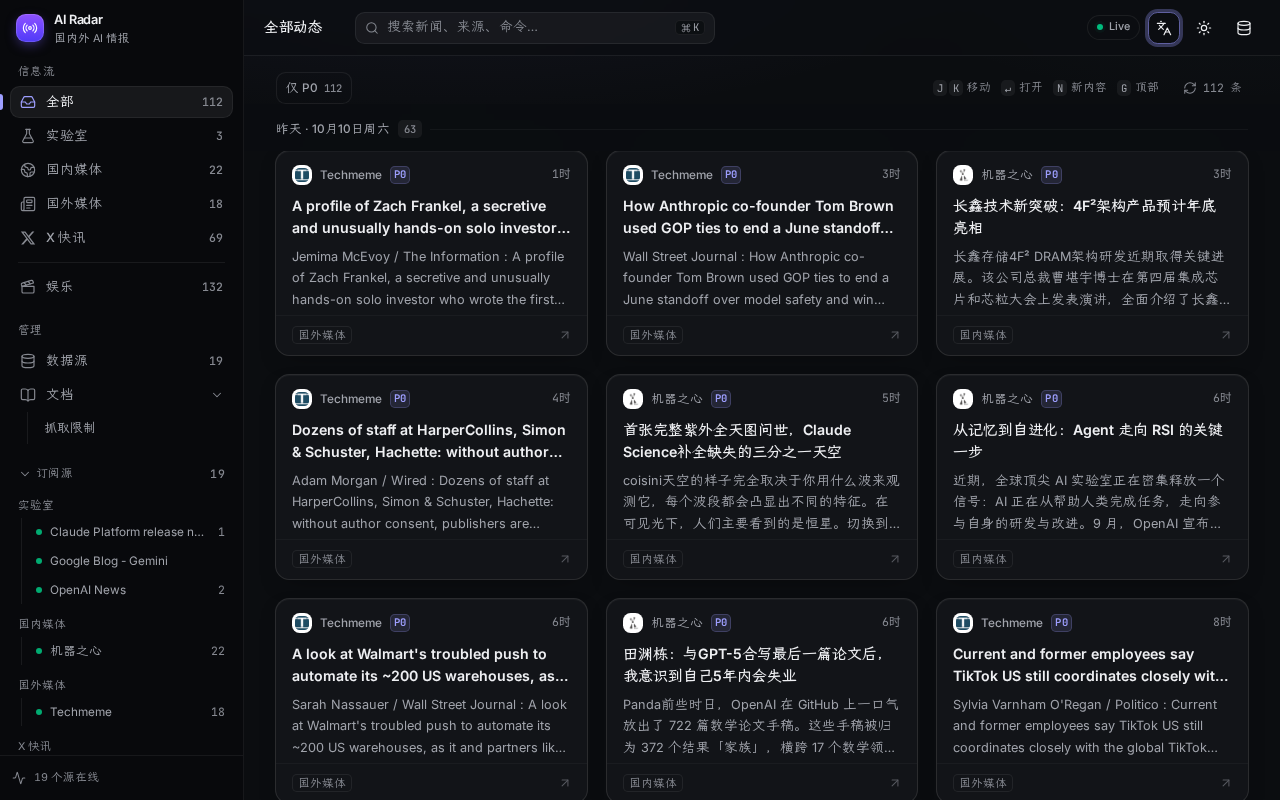
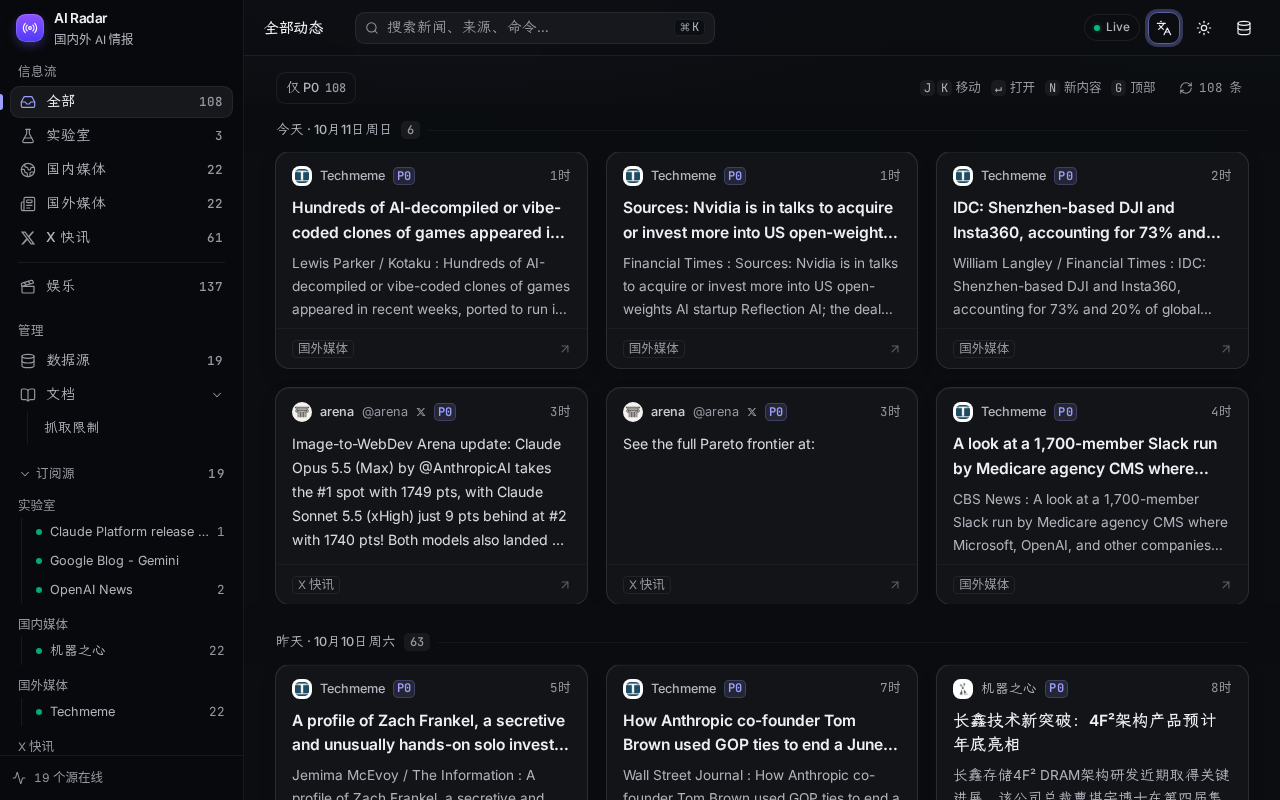
ui: larger, more readable type scale

diff --git a/src/app/globals.css b/src/app/globals.css
@@ -15,8 +15,8 @@
   --secondary: oklch(0.955 0.006 85);
   --secondary-foreground: oklch(0.25 0.01 75);
   --muted: oklch(0.955 0.006 85);
-  --muted-foreground: oklch(0.47 0.012 75);
-  --faint: oklch(0.53 0.012 75);
+  --muted-foreground: oklch(0.43 0.012 75);
+  --faint: oklch(0.49 0.012 75);
   --accent: oklch(0.945 0.007 85);
   --accent-foreground: oklch(0.2 0.01 75);
   --destructive: oklch(0.55 0.21 27);
@@ -51,8 +51,8 @@
   --secondary: oklch(1 0 0 / 0.055);
   --secondary-foreground: oklch(0.9 0.005 268);
   --muted: oklch(1 0 0 / 0.045);
-  --muted-foreground: oklch(0.72 0.012 268);
-  --faint: oklch(0.63 0.012 268);
+  --muted-foreground: oklch(0.77 0.012 268);
+  --faint: oklch(0.68 0.012 268);
   --accent: oklch(1 0 0 / 0.055);
   --accent-foreground: oklch(0.955 0.004 268);
   --destructive: oklch(0.68 0.19 22);
@@ -104,16 +104,19 @@
 @utility type-h3 { font-size: var(--text-h3); line-height: var(--tw-leading, var(--text-h3--line-height)); }
 @utility type-h1 { font-size: var(--text-h1); line-height: var(--tw-leading, var(--text-h1--line-height)); }
 
+/* Small sizes (< 13px): CJK falls back to a system sans instead of thin 霞鹜文楷; mono stays mono */
+.type-2xs:not(.font-mono), .type-meta:not(.font-mono) { font-family: var(--font-latin), "PingFang SC", "Hiragino Sans GB", "Noto Sans CJK SC", "Microsoft YaHei", system-ui, sans-serif; }
+
 @theme {
   /* Type scale tuned for 霞鹜文楷 + Inter (kai reads ~0.5px smaller than a grotesque) */
-  --text-2xs: 10.5px;   --text-2xs--line-height: 1.4;   /* badges, kbd, tiny counts */
-  --text-meta: 11.5px;  --text-meta--line-height: 1.45; /* times, footers, section labels */
-  --text-caption: 12.5px; --text-caption--line-height: 1.5; /* source names, sidebar rows, day headers */
-  --text-body: 13.5px;  --text-body--line-height: 1.65; /* summaries, table cells, drawer body */
-  --text-ui: 14.5px;    --text-ui--line-height: 1.55;   /* top-bar title, tweet text, dialog text */
-  --text-title: 15px;   --text-title--line-height: 1.5; /* card titles */
-  --text-h3: 18px;      --text-h3--line-height: 1.45;   /* drawer title, docs h2 */
-  --text-h1: 22px;      --text-h1--line-height: 1.35;   /* page headings */
+  --text-2xs: 12px;     --text-2xs--line-height: 1.4;   /* badges, kbd, tiny counts */
+  --text-meta: 12.5px;  --text-meta--line-height: 1.45; /* times, footers, section labels */
+  --text-caption: 13.5px; --text-caption--line-height: 1.5; /* source names, sidebar rows, day headers */
+  --text-body: 14.5px;  --text-body--line-height: 1.65; /* summaries, table cells, drawer body */
+  --text-ui: 15px;      --text-ui--line-height: 1.55;   /* top-bar title, tweet text, dialog text */
+  --text-title: 16.5px;   --text-title--line-height: 1.5; /* card titles */
+  --text-h3: 20px;      --text-h3--line-height: 1.45;   /* drawer title, docs h2 */
+  --text-h1: 24px;      --text-h1--line-height: 1.35;   /* page headings */
 }
 
 @theme inline {
@@ -168,7 +171,7 @@
 @layer base {
   * { @apply border-border outline-ring/50; }
   html { @apply font-sans; font-synthesis: none; } /* WenKai ships Regular+Medium only; never fake bold/italic */
-  body { @apply bg-background text-foreground antialiased; font-feature-settings: "cv11", "ss01", "ss03"; font-optical-sizing: auto; text-rendering: optimizeLegibility; }
+  body { @apply bg-background text-foreground; -webkit-font-smoothing: auto; -moz-osx-font-smoothing: auto; font-feature-settings: "cv11", "ss01", "ss03"; font-optical-sizing: auto; text-rendering: optimizeLegibility; }
   /* one stroke weight for every lucide icon (overrides the per-icon attribute) */
   svg.lucide { stroke-width: 1.75; }
   time, .font-mono, kbd { font-variant-numeric: tabular-nums; }

diff --git a/src/components/Feed.tsx b/src/components/Feed.tsx
@@ -42,7 +42,7 @@ const GRID = "grid grid-cols-1 gap-3 md:grid-cols-2 md:gap-4 xl:grid-cols-3 xl:g
 // content side padding (mirrored by the sticky day header's negative margin): 16 · 24 (sm) · 32 (xl) · 40 (2xl)
 const PAD = "px-4 sm:px-6 xl:px-8 2xl:px-10";
 const BLEED = "-mx-4 px-4 sm:-mx-6 sm:px-6 xl:-mx-8 xl:px-8 2xl:-mx-10 2xl:px-10";
-const CARD_H = "h-[204px]";
+const CARD_H = "h-[216px]";
 
 /** Equal-size card for both articles and X posts; every text block is clamped with an ellipsis. */
 const ItemCard = memo(function ItemCard({ it, active, fresh, read, onOpen, hover }: { it: ItemOut; active: boolean; fresh: boolean; read: boolean; onOpen: (it: ItemOut) => void; hover: boolean }) {

diff --git a/AGENTS.md b/AGENTS.md
@@ -158,13 +158,15 @@ See **docs/rate-limits.md** (or `/docs/rate-limits` in the app). Don't poll fast
 - Compose builds `ai-news-radar:local` with `pull_policy: build`; build args `NPM_REGISTRY`, `APT_MIRROR`.
 
 ## Type scale (WenKai + Inter)
-- Tokens in `globals.css` `@theme`, used via `@utility type-*` classes: `type-2xs` 10.5 · `type-meta` 11.5 · `type-caption` 12.5 · `type-body` 13.5 · `type-ui` 14.5 · `type-title` 15 · `type-h3` 18 · `type-h1` 22 (each with its own line-height). Use these instead of `text-[Npx]`; shadcn primitives keep Tailwind's `text-xs/sm/base`.
+- Tokens in `globals.css` `@theme`, used via `@utility type-*` classes: `type-2xs` 12 · `type-meta` 12.5 · `type-caption` 13.5 · `type-body` 14.5 · `type-ui` 15 · `type-title` 16.5 · `type-h3` 20 · `type-h1` 24 px (each with its own line-height; raised 2026-10-11 for readability — nothing below 12px, incl. shadcn `text-xs`).
+- Below 13px (`type-2xs`, `type-meta` without `font-mono`) CJK falls back to the system sans (PingFang / Noto Sans CJK / YaHei) instead of thin 霞鹜文楷. Body uses `-webkit-font-smoothing: auto` (antialiased looked thin on macOS). Muted/faint tokens: ≥ 5.9:1 contrast on card/background in both themes (AA+).
+- Feed card height `CARD_H` = 216px (header 44 + footer 40 + body: title 2 lines + summary 3 lines, or X text 5 lines, or 1-line title + 92px image). Re-check it whenever the scale changes. Use these instead of `text-[Npx]`; shadcn primitives keep Tailwind's `text-xs/sm/base`.
 - They are named `type-*`, not `text-*`, on purpose: `cn()` would treat unknown `text-*` classes as colours and drop them. Leading utilities (`leading-*`) still override the token line-height.
 - Latin uses "Inter Adj" (`@font-face` over the @fontsource files with `size-adjust: 94%`) so it sits level with 霞鹜文楷. `font-synthesis: none` globally — WenKai has only Regular (400) + Medium (registered as 700); `font-medium` renders Regular, `font-semibold` renders the real Medium face, never a faux bold.
 
 ## Import / export of subscriptions
 - `src/lib/portable.ts` (isomorphic): zod `EntrySchema` (name sanitised, http(s) only, X username regex, section/priority/interval), `buildJson` (`{app:"ai-news-radar", version:1, exportedAt:+08:00, sources}`), `buildOpml` (OPML 2.0; X as custom `type="x"`/`"x_list"` outlines), `parseImport` (JSON or OPML via fast-xml-parser; 1 MB / 2000 entries caps). Bump `SCHEMA_VERSION` and keep old versions parseable when the entry shape changes.
-- `POST /api/sources/import { entries, mode: merge|update|replace, dryRun, test }`: re-validates every entry server-side, matches existing by X username → normalized URL → name, `dryRun` returns the plan (new / restore / dup / update / invalid + remove list). Apply runs in one transaction: replace deletes unmatched sources via `deleteSources` (tombstones for built-ins), tombstoned built-ins in the file are restored through `seed()`, inserted/updated rows get `overrides='enabled,priority,poll_interval'`. X URLs are rebuilt from the username (never taken from the file). Publishes the `sources` SSE event; `test` polls new sources in the background (4 at a time).
+- `POST /api/sources/import { entries, mode: merge|update|replace, dryRun, test }`: re-validates every entry server-side, matches existing by X username → normalized URL → name, `dryRun` returns the plan (new / restore / dup / update / invalid + remove list). Apply runs in one transaction: replace deletes unmatched sources via `deleteSources` (tombstones for built-ins), tombstoned built-ins in the file are restored through `seed()`, inserted/updated rows get `overrides='enabled,priority,poll_interval,grp'` (seed sync never reverts imported settings or section). X URLs are rebuilt from the username (never taken from the file). Publishes the `sources` SSE event; `test` polls new sources in the background (4 at a time).
 - UI: export DropdownMenu + `components/import-dialog.tsx` (next/dynamic, mounted on open) on the sources page.
 - Manual test recipe (destructive, back up `data/news.db` first): export JSON → bulk-delete all → import (expect 22 restore, identical set) → OPML sample → replace with the original JSON.
 - Bundle rule: the sources page imports only `lib/portable-export.ts` (dependency-free export builders). zod + fast-xml-parser live in `lib/portable.ts`, which only the lazily-loaded import dialog and the API route import. Don't import `@/lib/portable` from always-loaded client code.
